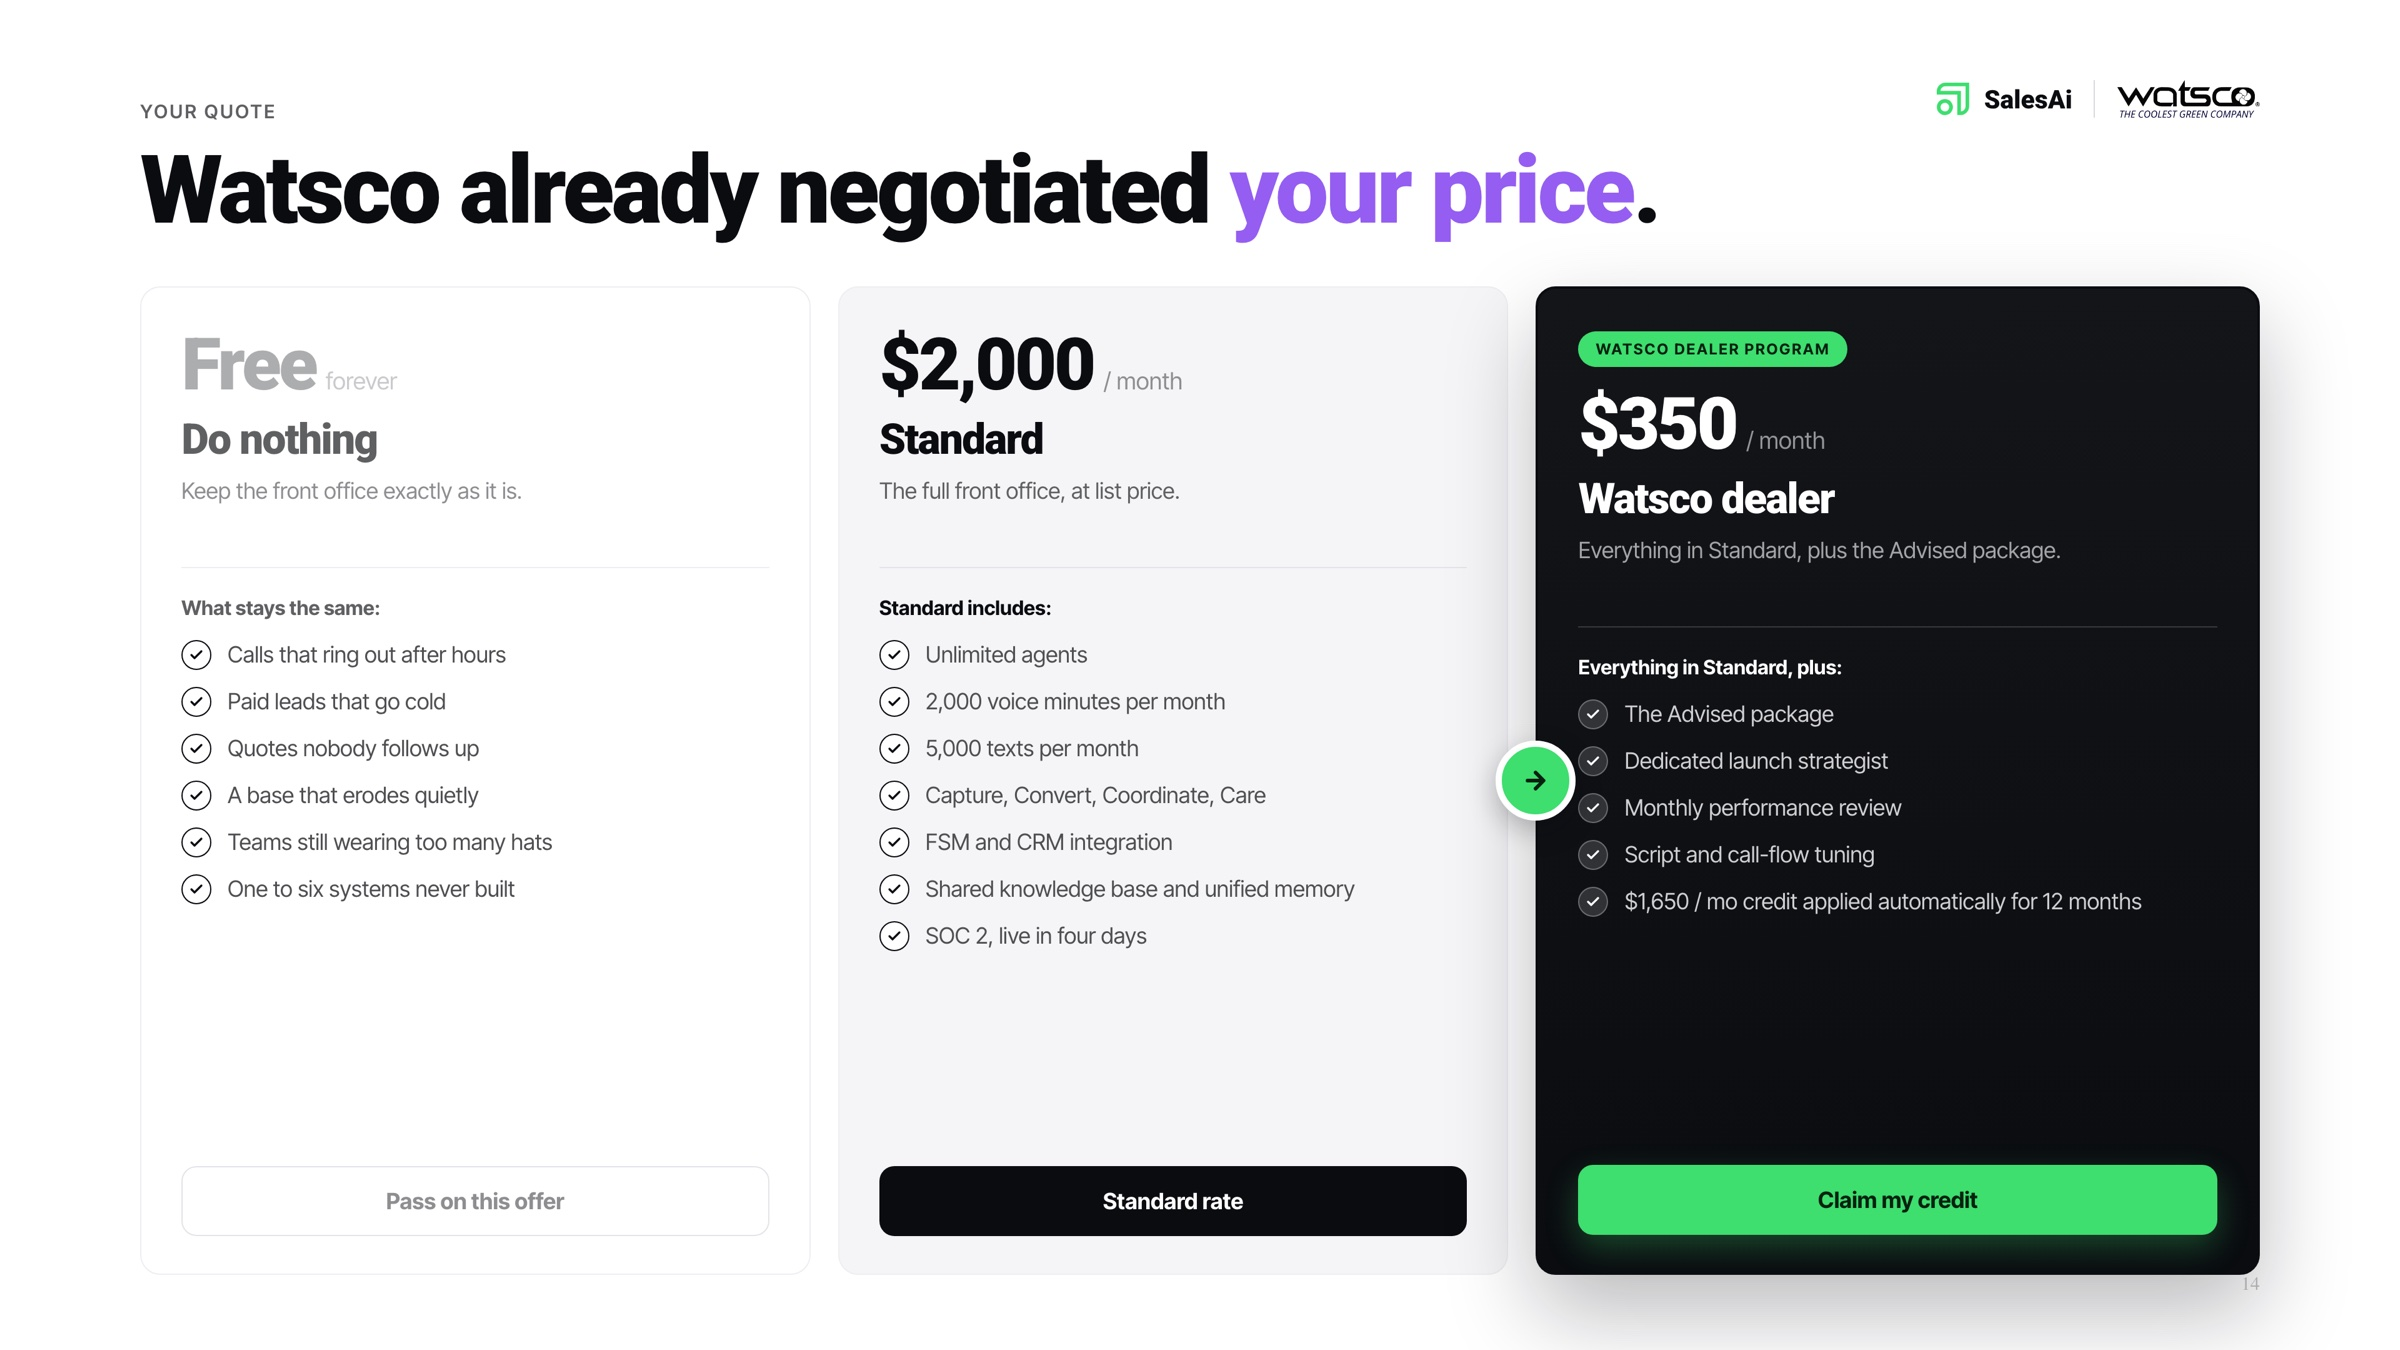
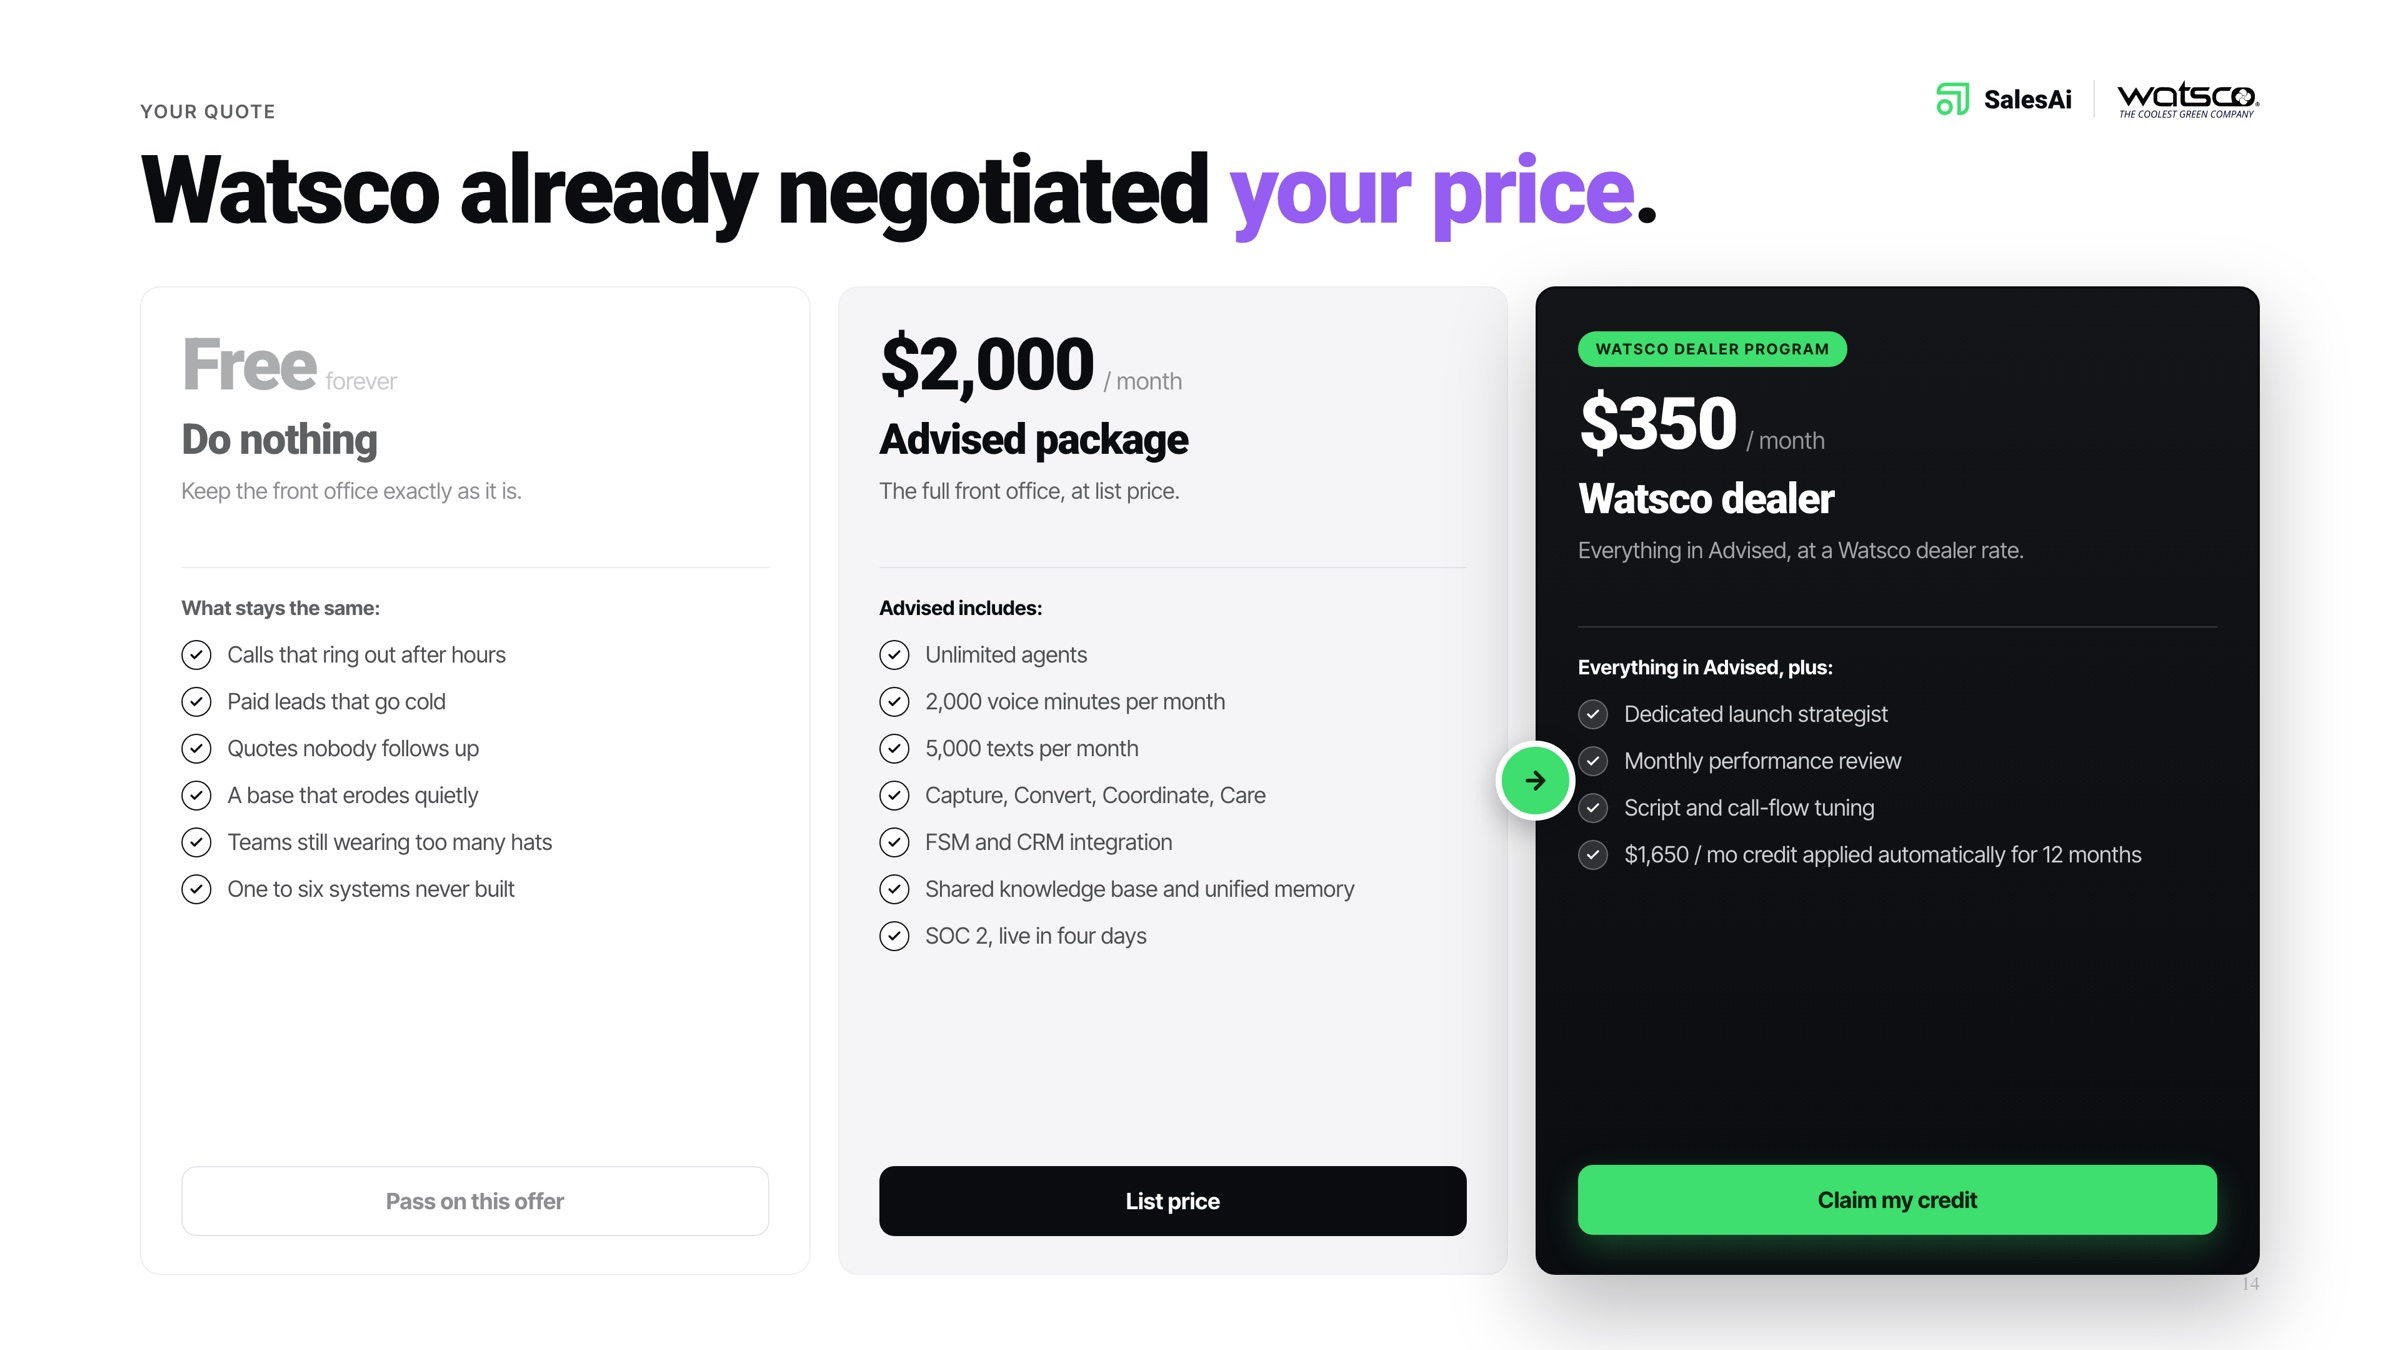
Quote slide: middle card is the Advised package
Claude-Session: https://claude.ai/code/session_01541ZQJSzd5g49QbE64sNeN

diff --git a/watsco-dealer-deck.html b/watsco-dealer-deck.html
@@ -101,7 +101,7 @@ nav{position:fixed;inset:0 0 auto 0;height:var(--nav);z-index:100;background:#00
 <section class="s" data-n="11"><img src="watsco-deck/11.jpg?v=0dd8a9b20b" width="2400" height="1350" alt="Slide 11 — What compounds" loading="lazy" decoding="async"></section>
 <section class="s" data-n="12"><img src="watsco-deck/12.jpg?v=e57f569dd8" width="2400" height="1350" alt="Slide 12 — Proof" loading="lazy" decoding="async"></section>
 <section class="s" data-n="13"><img src="watsco-deck/13.jpg?v=84be0091f0" width="2400" height="1350" alt="Slide 13 — Enterprise-grade security" loading="lazy" decoding="async"></section>
-<section class="s" data-n="14"><img src="watsco-deck/14.jpg?v=61b839966c" width="2400" height="1350" alt="Slide 14 — Your quote" loading="lazy" decoding="async"></section>
+<section class="s" data-n="14"><img src="watsco-deck/14.jpg?v=7729807e1c" width="2400" height="1350" alt="Slide 14 — Your quote" loading="lazy" decoding="async"></section>
 <section class="s" data-n="15"><img src="watsco-deck/15.jpg?v=428baae9e3" width="2400" height="1350" alt="Slide 15 — Claim your dealer credit" loading="lazy" decoding="async"></section>
 <div class="count" id="c">01 / 15</div>
 <script>
